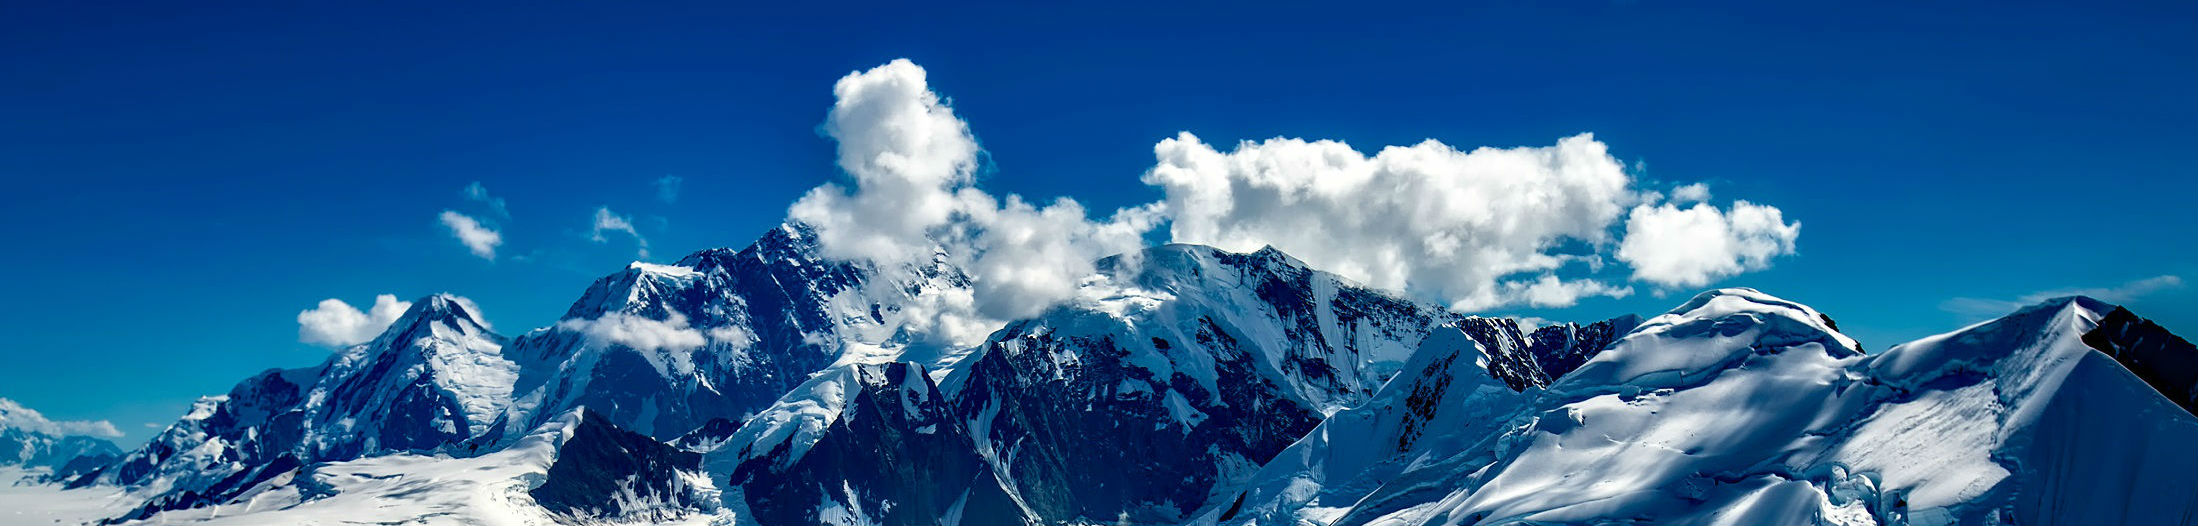
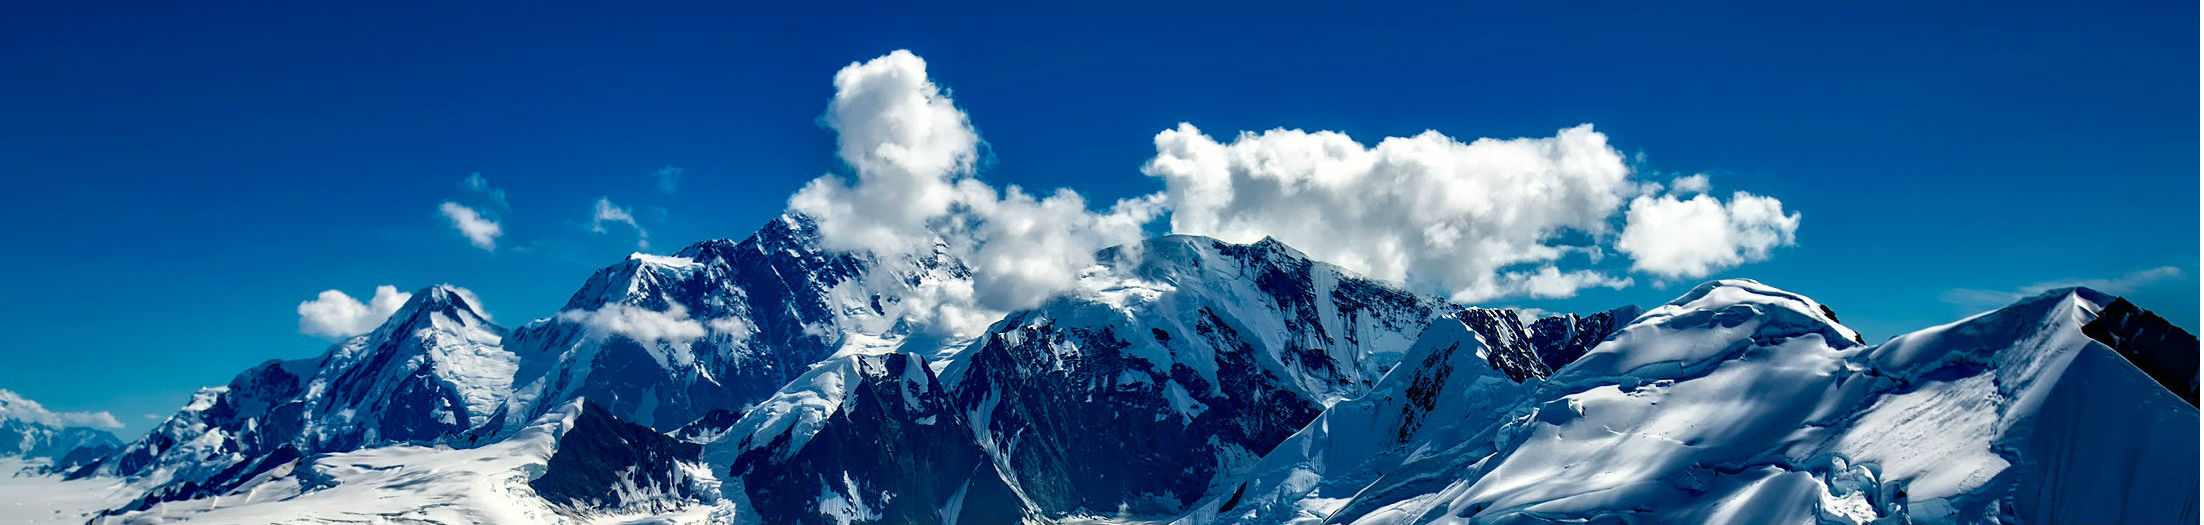
change about page image

Changed region(s): [[0.0, 0.0, 1.0, 1.0]]

diff --git a/_site/about/index.html b/_site/about/index.html
@@ -23,7 +23,7 @@
 
 
 
-  <meta property="og:image" content="http://localhost:4000/assets/images/about2.jpg">
+  <meta property="og:image" content="http://localhost:4000/assets/images/about.jpg">
 
 
 
@@ -172,7 +172,7 @@
   style=" "
 >
   
-    <img src="http://localhost:4000/assets/images/about2.jpg" alt="" class="page__hero-image">
+    <img src="http://localhost:4000/assets/images/about.jpg" alt="" class="page__hero-image">
   
   
 </div>

diff --git a/_pages/about.md b/_pages/about.md
@@ -9,7 +9,7 @@ related: false
 category: abouts
 permalink: /about/
 header:
-  image: /assets/images/about2.jpg
+  image: /assets/images/about.jpg
 ---
 
 “you must be ready to burn yourself in your own flame; how could you rise anew if you have not first become ashes?"
